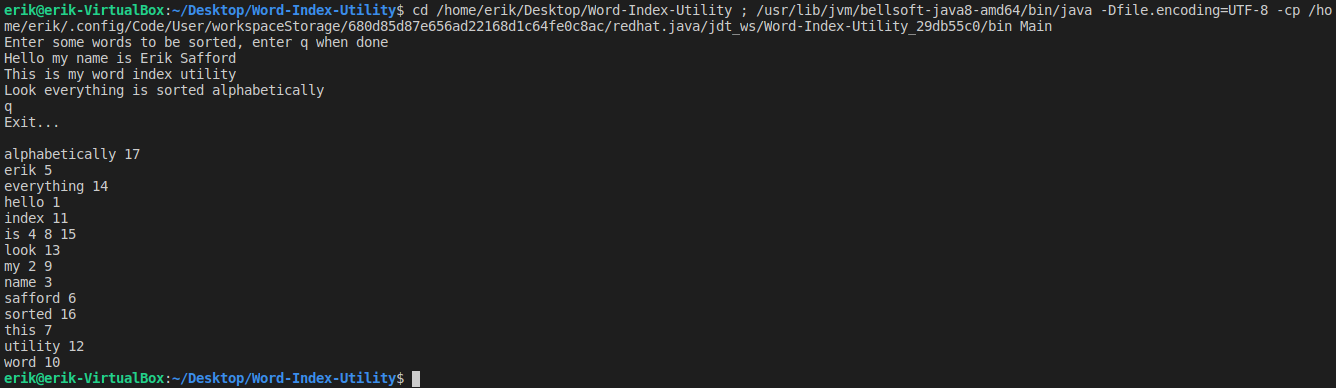
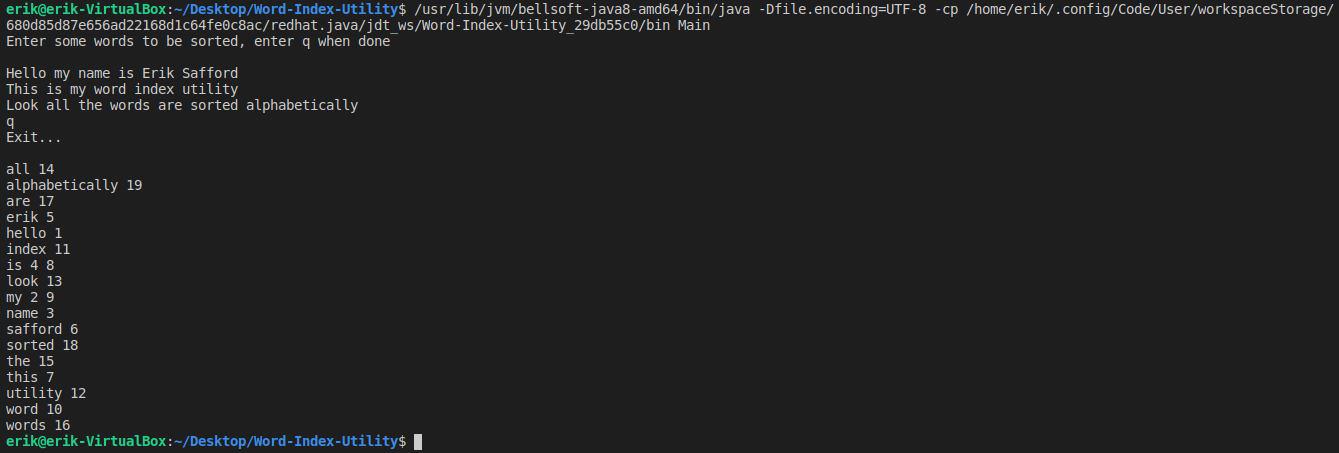
Added output separating newline, updated screenshot

Changed region(s): [[0.0, 0.0, 1.0, 0.9897], [0.3069, 0.9897, 0.3376, 1.0]]

diff --git a/src/IndexUtility.java b/src/IndexUtility.java
@@ -8,7 +8,7 @@ public class IndexUtility
 		
 		Scanner sc = new Scanner(System.in);  //Open a new scanner for stdin
 		String cmdLineInput;
-		System.out.println("Enter some words to be sorted, enter q when done");  //Promt user input
+		System.out.println("Enter some words to be sorted, enter q when done\n");  //Promt user input
 		while(true)  //Infinite loop
 		{
 			cmdLineInput = sc.nextLine();  //Reads in a string from stdin to cmdLineInput
